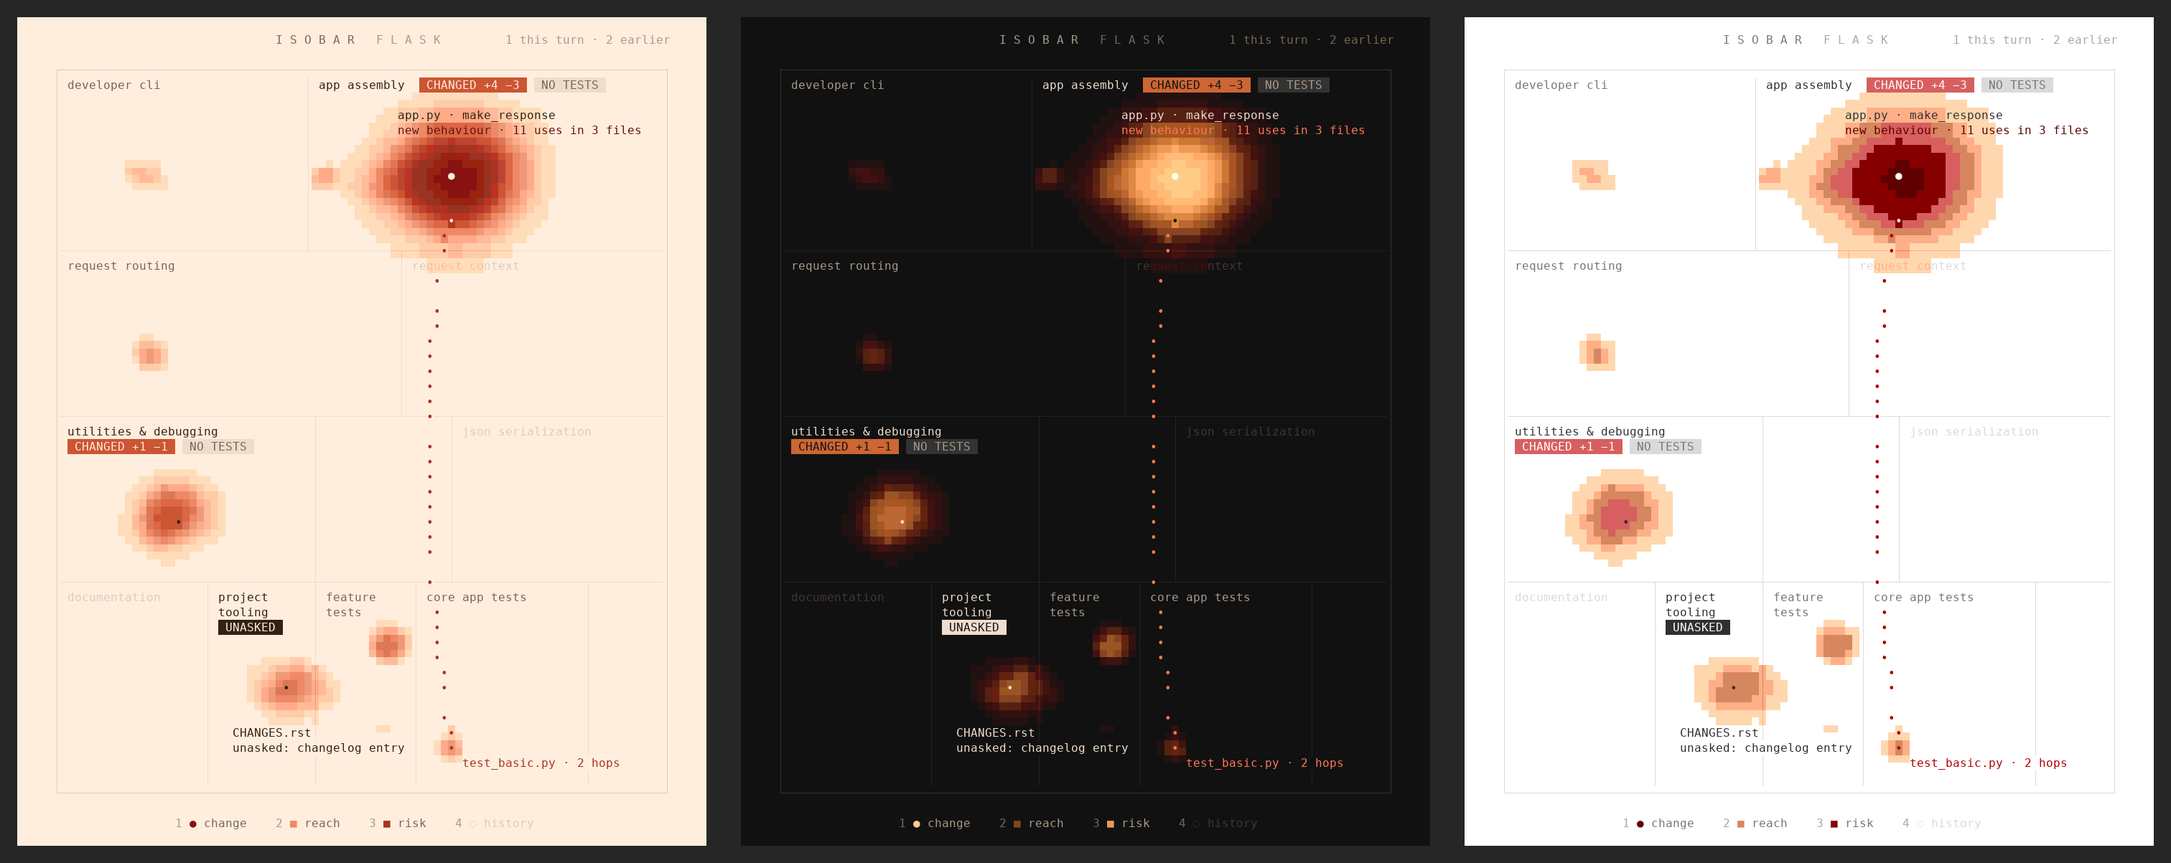
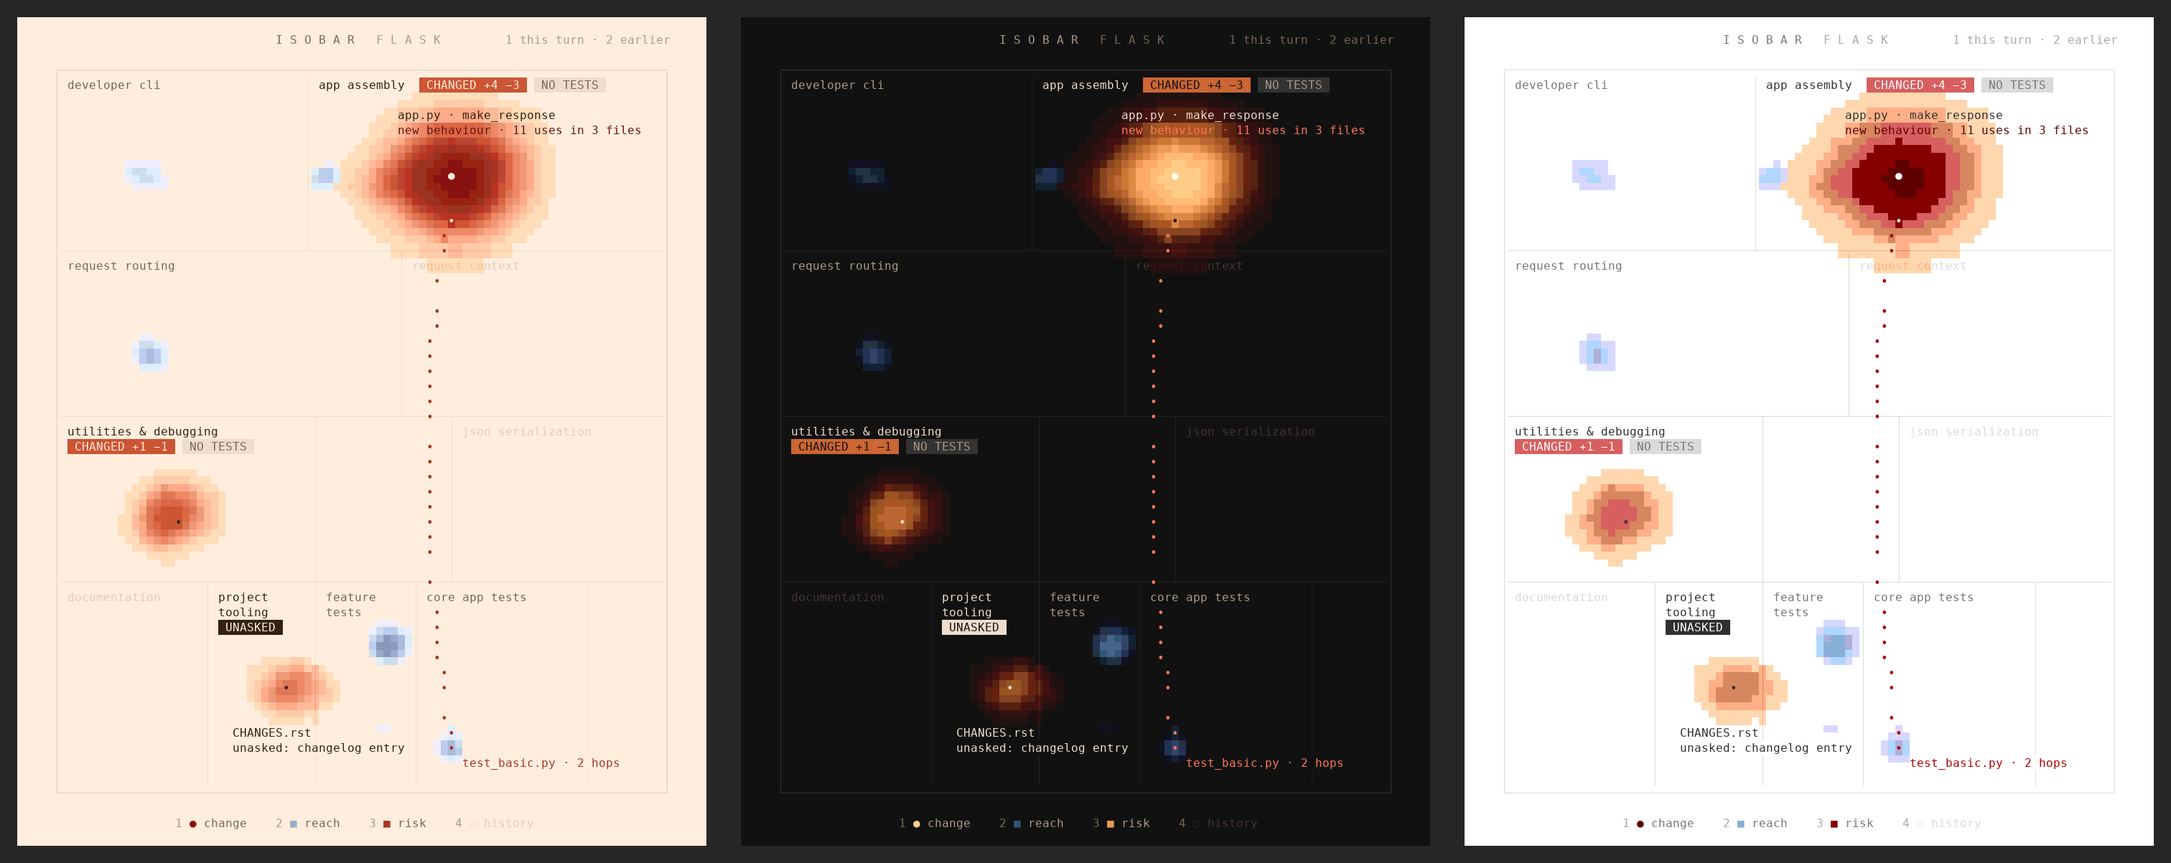
Two hues: the reach rains slate blue, apart from the change's red storm
Each pixel the rain outweighs a storm on takes the rain's own ramp, stepped on the
same perceptual grid as the storm's, with night and 256-colour sets. The README
images are re-shot from the same sources.

diff --git a/hooks/render/palette.ts b/hooks/render/palette.ts
@@ -3,7 +3,8 @@
  * (each channel a multiple of 0x11), so each set is chosen on that grid: a colour
  * off it would be snapped channel by channel and drift in hue. The radar ramps walk
  * that grid in OKLab steps of 0.03 to 0.06, lightness always moving one way, so
- * no band jumps against its neighbour.
+ * no band jumps against its neighbour. The change burns in one hue and its reach rains in
+ * another, slate blue, so what changed and what it touches read apart at a glance.
  *
  * Where Claude Code paints 256 colours (inside tmux, or where COLORTERM never says
  * truecolor) it moves each colour onto xterm's palette, and the cream paper lands on
@@ -23,6 +24,10 @@ export type Inks = {
   radar: readonly number[]
   /** the hairline over each bin, two bins on, so a line tints the weather under it */
   line: readonly number[]
+  /** the reach's rain, bin by bin in its own cooler hue; bin 0 is the same dry ground */
+  rain: readonly number[]
+  /** the hairline over each bin of rain */
+  rainLine: readonly number[]
   /** the frame around the map */
   frame: number
   /** changed regions' names, the edit's note and the legend's words */
@@ -54,6 +59,9 @@ export type Inks = {
 
 const paperRadar = [0xffeedd, 0xffddbb, 0xffccaa, 0xffbb99, 0xffaa88, 0xee9977, 0xee8866, 0xdd7755, 0xdd6644, 0xcc5533, 0xbb4433, 0xbb3322, 0xaa3322, 0x993322, 0x992211, 0x881111, 0x771111]
 const nightRadar = [0x111111, 0x221111, 0x331111, 0x441111, 0x552211, 0x662211, 0x884422, 0x995522, 0xaa5522, 0xbb6633, 0xcc7733, 0xdd8844, 0xee9955, 0xffaa66, 0xffbb77, 0xffcc88, 0xffddaa]
+// the reach's rain: slate blue, a step lighter than the storm bin for bin, so the change stays the loudest thing on the map
+const paperRain = [0xffeedd, 0xeeeeff, 0xddeeff, 0xccddee, 0xbbccee, 0xaabbdd, 0x99aacc, 0x8899bb, 0x7788aa, 0x667799, 0x556688, 0x445577, 0x334466, 0x223355, 0x112244, 0x112233, 0x001122]
+const nightRain = [0x111111, 0x111122, 0x112233, 0x223344, 0x223355, 0x334466, 0x335577, 0x446688, 0x557799, 0x6688aa, 0x7799bb, 0x88aacc, 0x99bbdd, 0xaaccee, 0xbbddee, 0xccddff, 0xddeeff]
 
 /**
  * Each bin's hairline: two bins on, the dry ground's a neutral step off it. A 256 ramp repeats
@@ -67,6 +75,8 @@ export const PAPER_INKS: Inks = {
   paper: 0xffeedd,
   radar: paperRadar,
   line: linesOf(paperRadar, 0xeeddcc),
+  rain: paperRain,
+  rainLine: linesOf(paperRain, 0xeeddcc),
   frame: 0xddccbb,
   ink: 0x332211,
   muted: 0x776655,
@@ -89,6 +99,8 @@ export const NIGHT_INKS: Inks = {
   paper: 0x111111,
   radar: nightRadar,
   line: linesOf(nightRadar, 0x222222),
+  rain: nightRain,
+  rainLine: linesOf(nightRain, 0x222222),
   frame: 0x333333,
   ink: 0xeeddcc,
   muted: 0xaa9988,
@@ -185,11 +197,16 @@ const rampOf = (indices: readonly number[]) => indices.map((i, k) => xterm(i, in
 const paperRadar256 = rampOf([231, 223, 223, 216, 216, 173, 173, 173, 167, 167, 167, 88, 88, 88, 88, 52, 52])
 /** Near-black with the weather burning up through red and amber: the night chart in xterm's colours. */
 const nightRadar256 = rampOf([233, 52, 52, 52, 88, 88, 88, 131, 131, 173, 173, 180, 180, 216, 216, 223, 223])
+/** The reach's slate rain in xterm's colours, on each ground. */
+const paperRain256 = rampOf([231, 189, 189, 153, 153, 146, 110, 110, 67, 67, 61, 61, 24, 24, 17, 17, 17])
+const nightRain256 = rampOf([233, 19, 19, 24, 24, 24, 60, 61, 61, 67, 67, 104, 110, 110, 146, 153, 189])
 
 export const PAPER_INKS_256: Inks = {
   paper: paperRadar256[0]!,
   radar: paperRadar256,
   line: linesOf(paperRadar256, xterm(253), shown256),
+  rain: paperRain256,
+  rainLine: linesOf(paperRain256, xterm(253), shown256),
   frame: xterm(253),
   ink: xterm(236),
   muted: xterm(243),
@@ -211,6 +228,8 @@ export const NIGHT_INKS_256: Inks = {
   paper: nightRadar256[0]!,
   radar: nightRadar256,
   line: linesOf(nightRadar256, xterm(235), shown256),
+  rain: nightRain256,
+  rainLine: linesOf(nightRain256, xterm(235), shown256),
   frame: xterm(236),
   ink: xterm(253),
   muted: xterm(248),

diff --git a/tests/engine.test.ts b/tests/engine.test.ts
@@ -7,7 +7,7 @@ import { edgesOf, joinedPython, jsRulesOf, normalize, parseJsonc, resolveJs, res
 import { weatherOf } from '../hooks/engine/weather'
 import { ALL_LAYERS } from '../hooks/render/field'
 import { layoutOf } from '../hooks/render/layout'
-import { colorsOf, NIGHT_INKS_256, PAPER_INKS, PAPER_INKS_256, roundedXtermOf, shown256, xtermOf } from '../hooks/render/palette'
+import { colorsOf, NIGHT_INKS_256, PAPER_INKS, PAPER_INKS_256, roundedXtermOf, shown256, STORM, xtermOf } from '../hooks/render/palette'
 import { codePointOf } from '../hooks/render/raster'
 import { sheetOf, wrap } from '../hooks/render/sheet'
 import { FACTS, MODEL_REPLY } from './fixtures'
@@ -308,6 +308,16 @@ describe('basemap and weather', () => {
     }
   })
 
+  test('the change burns red and its reach rains slate blue', () => {
+    const w = weatherOf(map, FACTS, { kind: 'uncommitted', label: 'uncommitted' }, [{ path: 'src/util.ts', added: 5, deleted: 1, isNew: false, isDeleted: false }])
+    const grid = sheetOf({ repo: 'demo', map, files: [...FACTS.lines.keys()], lines: FACTS.lines, weather: w, layers: ALL_LAYERS }, 95, 60)
+    const painted = new Set(grid.cells.flatMap(c => [c.fg, c.bg]))
+
+    expect(w.reach.length > 0).toBe(true)
+    expect(PAPER_INKS.radar.slice(STORM).some(c => painted.has(c))).toBe(true)
+    expect(PAPER_INKS.rain.slice(1).some(c => painted.has(c))).toBe(true)
+  })
+
   test('Claude Code paints 256 colours inside tmux and wherever COLORTERM never says truecolor', () => {
     expect(colorsOf({ COLORTERM: 'truecolor' })).toBe('truecolor')
     expect(colorsOf({ COLORTERM: 'truecolor', TMUX: '/tmp/tmux-1/default,1,0' })).toBe('256')
@@ -326,19 +336,23 @@ describe('basemap and weather', () => {
 
     for (const inks of [PAPER_INKS_256, NIGHT_INKS_256]) {
       // rounded or matched to its nearest, every ink lands on the same xterm colour
-      const all = [...inks.radar, ...inks.line, ...Object.values(inks).flatMap(v => (typeof v === 'number' ? [v] : typeof v === 'object' && 'fg' in v ? [v.fg, v.bg] : []))]
+      const all = [...inks.radar, ...inks.line, ...inks.rain, ...inks.rainLine, ...Object.values(inks).flatMap(v => (typeof v === 'number' ? [v] : typeof v === 'object' && 'fg' in v ? [v.fg, v.bg] : []))]
 
       expect(all.filter(c => xtermOf(c) !== roundedXtermOf(c))).toEqual([])
-      // every bin keeps its own name, so the sheet can tell them apart where they show alike
-      expect(new Set(inks.radar).size).toBe(inks.radar.length)
-      const shown = inks.radar.map(c => lightness(shown256(c)))
-      const isDarkening = shown.every((l, k) => k === 0 || (inks.isNight ? l >= shown[k - 1]! : l <= shown[k - 1]!))
+      for (const [ramp, line] of [[inks.radar, inks.line], [inks.rain, inks.rainLine]] as const) {
+        // every bin keeps its own name, so the sheet can tell them apart where they show alike
+        expect(new Set(ramp).size).toBe(ramp.length)
+        const shown = ramp.map(c => lightness(shown256(c)))
+        const isDarkening = shown.every((l, k) => k === 0 || (inks.isNight ? l >= shown[k - 1]! : l <= shown[k - 1]!))
 
-      expect(isDarkening).toBe(true)
-      // each hairline shows apart from the bin it crosses, short of the core's own colour
-      const core = shown256(inks.radar[inks.radar.length - 1]!)
+        expect(isDarkening).toBe(true)
+        // each hairline shows apart from the bin it crosses, short of the core's own colour
+        const core = shown256(ramp[ramp.length - 1]!)
 
-      inks.radar.forEach((c, k) => expect(shown256(c) === core || shown256(inks.line[k]!) !== shown256(c)).toBe(true))
+        ramp.forEach((c, k) => expect(shown256(c) === core || shown256(line[k]!) !== shown256(c)).toBe(true))
+      }
+      // the rain shares only the dry ground with the storm, so a painted colour names its bin
+      expect(inks.rain.slice(1).filter(c => inks.radar.includes(c))).toEqual([])
     }
     expect(shown256(PAPER_INKS_256.paper)).toBe(0xffffff)
   })

diff --git a/hooks/render/field.ts b/hooks/render/field.ts
@@ -19,6 +19,8 @@ export type Field = {
   h: number
   /** radar bin per pixel, 0 (dry) to 9 (the eye); the palette colours it */
   level: Uint8Array
+  /** 1 where the reach's rain sets the pixel's bin rather than a storm: it takes the rain's own hue */
+  wet: Uint8Array
   /** where each edit's eye is drawn, as a glyph over the weather */
   eyes: { path: string; x: number; y: number; risk: number; isLatest: boolean }[]
   /** where history expected a change: drawn as dashed braille contours over the weather */
@@ -36,9 +38,10 @@ export function fieldOf(layout: Layout, weather: Weather | null, layers: Layers,
   const w = layout.cols
   const h = layout.rows * 2
   const level = new Uint8Array(w * h)
+  const wet = new Uint8Array(w * h)
   const seed = hashOf(seedText)
 
-  if (weather === null) return { w, h, level, eyes: [], rings: [], track: [] }
+  if (weather === null) return { w, h, level, wet, eyes: [], rings: [], track: [] }
 
   const rnd = mulberry(seed)
   const pointOf = placer(layout, seed)
@@ -112,7 +115,7 @@ export function fieldOf(layout: Layout, weather: Weather | null, layers: Layers,
   splat(leadDensity, w, h, lead, warp, 2.2)
   splat(stormDensity, w, h, storm, warp, 2.2)
   splat(rainDensity, w, h, rain, warp, 1.6)
-  radar(level, leadDensity, stormDensity, rainDensity, w, h, seed)
+  radar(level, wet, leadDensity, stormDensity, rainDensity, w, h, seed)
   // at most two rings, each on open ground: a ring inside the storm or over another reads as a tangle
   const rings: Field['rings'] = []
 
@@ -127,7 +130,7 @@ export function fieldOf(layout: Layout, weather: Weather | null, layers: Layers,
     ? [...weather.cells].sort((a, b) => Number(b.isLatest) - Number(a.isLatest) || b.risk - a.risk).slice(0, 8).map(c => ({ path: c.path, ...pointOf(c.path, c.region), risk: c.risk, isLatest: c.isLatest }))
     : []
 
-  return { w, h, level, eyes, rings, track }
+  return { w, h, level, wet, eyes, rings, track }
 }
 
 /** A file's point; a file the layout has no point for (new, untracked) gets a stable spot in its cell. */
@@ -249,7 +252,7 @@ function splat(density: Float32Array, w: number, h: number, puffs: readonly Puff
  * them, and the rain stops below both; the faintest rain is left as dry ground so a wide
  * reach never hazes the map.
  */
-function radar(level: Uint8Array, lead: Float32Array, storm: Float32Array, rain: Float32Array, w: number, h: number, seed: number) {
+function radar(level: Uint8Array, wet: Uint8Array, lead: Float32Array, storm: Float32Array, rain: Float32Array, w: number, h: number, seed: number) {
   const top = BINS - 1
   const binOf = (d: number, k: number, lift = 0.5) => Math.max(0, Math.floor(top * (1 - Math.exp(-k * d)) + lift))
 
@@ -263,7 +266,12 @@ function radar(level: Uint8Array, lead: Float32Array, storm: Float32Array, rain:
       if (l < 0.05 && s < 0.05 && r < 0.05) continue
       const jitter = 0.82 + 0.36 * valueNoise(x * 0.11, y * 0.16, seed + 5)
 
-      level[i] = Math.min(top, Math.max(binOf(l * jitter, 0.3), Math.min(COOL_TOP, binOf(s * jitter * 0.55, 0.3)), Math.min(RAIN_TOP, binOf(r * jitter, 0.16, -1.6))))
+      const fire = Math.max(binOf(l * jitter, 0.3), Math.min(COOL_TOP, binOf(s * jitter * 0.55, 0.3)))
+      const wash = Math.min(RAIN_TOP, binOf(r * jitter, 0.16, -1.6))
+
+      level[i] = Math.min(top, Math.max(fire, wash))
+      // the rain takes its own hue wherever it, and no storm, sets the bin
+      wet[i] = wash > fire ? 1 : 0
     }
   }
 }

diff --git a/hooks/render/sheet.ts b/hooks/render/sheet.ts
@@ -163,7 +163,7 @@ function legend(grid: Sheet, layers: Layers, row: number) {
   const g = grid.inks
   const items = [
     { key: '1', mark: '●', fg: g.radar[BINS - 2]!, name: 'change', on: layers.code },
-    { key: '2', mark: '■', fg: g.radar[6]!, name: 'reach', on: layers.impact },
+    { key: '2', mark: '■', fg: g.rain[6]!, name: 'reach', on: layers.impact },
     { key: '3', mark: '■', fg: g.radar[STORM + 2]!, name: 'risk', on: layers.risk },
     { key: '4', mark: '◌', fg: g.history, name: 'history', on: layers.history },
   ]
@@ -194,7 +194,7 @@ function paint(grid: Sheet, field: Field, x0: number, y0: number) {
   const px = (x: number, y: number) => {
     const i = y * field.w + x
 
-    return grid.inks.radar[field.level[i] ?? 0] ?? grid.inks.paper
+    return (field.wet[i] === 1 ? grid.inks.rain : grid.inks.radar)[field.level[i] ?? 0] ?? grid.inks.paper
   }
 
   for (let r = 0; r < field.h / 2; r++) {
@@ -217,7 +217,14 @@ function groundOf(grid: Sheet, x: number, y: number): number {
   return binOf(grid, at.fg) >= binOf(grid, at.bg) ? at.fg : at.bg
 }
 
-const binOf = (grid: Sheet, color: number) => Math.max(0, grid.inks.radar.indexOf(color))
+/** The bin a painted colour stands for, in the storm's hue or the rain's. */
+const binOf = (grid: Sheet, color: number) => {
+  const k = grid.inks.radar.indexOf(color)
+
+  return k >= 0 ? k : Math.max(0, grid.inks.rain.indexOf(color))
+}
+/** The hairline that crosses a painted colour: two bins on, in the hue it was painted in. */
+const lineOf = (grid: Sheet, color: number) => (grid.inks.radar.includes(color) ? grid.inks.line : grid.inks.rain.includes(color) ? grid.inks.rainLine : grid.inks.line)[binOf(grid, color)]
 
 /** Hairlines between cells, multiplied into the weather so they darken it instead of sitting on it. */
 function lines(grid: Sheet, layout: Layout, x0: number, y0: number) {
@@ -236,7 +243,7 @@ function lines(grid: Sheet, layout: Layout, x0: number, y0: number) {
       const glyph = BOX[(up ? 8 : 0) | (down ? 4 : 0) | (lf ? 2 : 0) | (rt ? 1 : 0)] ?? '·'
       const ground = groundOf(grid, x0 + c, y0 + r)
 
-      put(grid, x0 + c, y0 + r, { glyph, fg: grid.inks.line[binOf(grid, ground)] ?? grid.inks.line[0], bg: ground })
+      put(grid, x0 + c, y0 + r, { glyph, fg: lineOf(grid, ground) ?? grid.inks.line[0], bg: ground })
     }
   }
 }
@@ -276,7 +283,7 @@ function names(grid: Sheet, layout: Layout, weather: Weather | null, layers: Lay
           const ground = groundOf(grid, rect.x + 1 + i, rect.y)
           const bin = binOf(grid, ground)
 
-          put(grid, rect.x + 1 + i, rect.y, { glyph: name[i], fg: bin === 0 ? g.nameDry : g.line[bin] ?? g.nameDry, bg: ground })
+          put(grid, rect.x + 1 + i, rect.y, { glyph: name[i], fg: bin === 0 ? g.nameDry : lineOf(grid, ground) ?? g.nameDry, bg: ground })
         }
       }
       continue

diff --git a/README.md b/README.md
@@ -14,7 +14,7 @@ isobar is a [Claude Code](https://claude.com/claude-code) mod that docks a pane 
 
 - **Where the change landed.** A storm on each file Claude edited, in its region of the map. You see at a glance whether the work landed where you expected.
 - **What it did there.** Once a turn ends, a small model reads the diff of each changed region and captions it under the region's name in a few words, such as `warns on slow requests` or `covers slow warnings`. The caption is the diff's own account, written without your requests, so you can set it against what you meant.
-- **What it reaches.** Rain on the files that use what changed. isobar reads each edit declaration by declaration: a new signature or a new behaviour rains on the files that name it, and an edit to comments or imports stays dry. The note beside the edit says how far it reaches, as in `new behaviour · 11 uses in 3 files`.
+- **What it reaches.** Slate-blue rain on the files that use what changed, apart from the change's red storm. isobar reads each edit declaration by declaration: a new signature or a new behaviour rains on the files that name it, and an edit to comments or imports stays dry. The note beside the edit says how far it reaches, as in `new behaviour · 11 uses in 3 files`.
 - **This turn against the session.** The latest turn's edits burn brightest and earlier turns fade, so a long session still reads in one look.
 - **What you never asked for.** Turn on the scope check and, after each turn, a small model compares your requests with the turn's diff. An edit nobody asked for carries `UNASKED` and a few words on what it did.
 - **The same frame every time.** Each repository is cut into named regions once and kept. Every change lands on the same map, so after a few sessions you read a change by its shape, the way you read a weather chart of your own country.
@@ -45,7 +45,7 @@ For one session only: `claude --plugin-dir ~/src/isobar`.
 - **Caption.** Under a changed region's name, what the change does there, from the gist.
 - **Badges.** The region's name carries `CHANGED +a −d`, `NO TESTS` when source code changed what it does and no test moved with it (a changed test counts when it imports the file, shares its name, or its new lines name what the edit touched or introduced, such as a new config key), `UNASKED` when the scope check flagged an edit, and `EXPECTED` on a region history says should have changed.
 - **Note.** The edited file and the declaration it touched, then how it reaches: `new signature` or `new behaviour` with its uses, `comments only`, or, for a file isobar reads whole, how many files depend on it.
-- **Rain.** The files that use what changed, fading with import distance.
+- **Rain.** The files that use what changed, in slate blue, fading with import distance.
 - **Track.** The farthest file the change reaches, along its real import chain, labelled `file · N hops`. A file is named by as much of its path as tells it apart from the others on the pane: `sansio/app.py` beside `flask/app.py`.
 - **Title.** The repository, and how many files the latest turn changed against the rest of the session.
 
@@ -93,7 +93,7 @@ To give a team one shared map, commit it as `.isobar/map.json`; from a clone of 
 6. **The gist.** When a turn ends, one call to `smallModel` carries each changed region's name and blurb, its files with their line counts and touched declarations, and their diff, capped at 400 lines shared across the files. It asks for a caption of 2 to 4 words per region. Your requests stay out of it. A caption holds until its region's change changes; while a turn runs, the last caption stays.
 7. **The scope check** (opt-in). When a turn ends, one call to `smallModel` carries your last four requests and the turn's diff, capped at 400 lines, and asks which changes no request called for. A flag holds until the file changes again.
 8. **The map.** Once per repository, isobar cuts the tree into about 160 units (big source folders opened to their files, the rest taken a folder at a time) and asks the session's model to group them into at most 20 regions in 3 to 6 bands, from where work enters down to the foundations. Every file lands in exactly one region; when the model's answer is unusable, the folders themselves become the regions. A region's area is its lines of code times how much of the rest depends on it. The map is kept in Claude Code's plugin store, and new files join the region their imports point to, so the frame never grows or moves.
-9. **The picture.** The storm and the rain are density fields over the map's layout, binned into 17 colour steps that move evenly in a perceptual colour space, drawn in half-block cells as one Raster.
+9. **The picture.** The storm and the rain are density fields over the map's layout, binned into 17 colour steps that move evenly in a perceptual colour space: the storm in reds, the rain in slate blues wherever it outweighs a storm. They are drawn in half-block cells as one Raster.
 
 Refreshes run 500 ms after Claude's last tool call, one at a time.
 

diff --git a/docs/design.md b/docs/design.md
@@ -1,6 +1,6 @@
 # Design notes
 
-isobar treats a session's change as weather over a map that never moves. The storm sits where Claude edited, its rain falls on the code that uses what changed, the latest turn shows brightest, and a badge marks an edit nobody asked for. The map is the same every time you look, so after a few changes you read it by shape, the way you read a weather chart of your own country.
+isobar treats a session's change as weather over a map that never moves. The storm sits where Claude edited in red, its rain falls in slate blue on the code that uses what changed, the latest turn shows brightest, and a badge marks an edit nobody asked for. The map is the same every time you look, so after a few changes you read it by shape, the way you read a weather chart of your own country.
 
 ## Who it is for
 
@@ -25,7 +25,7 @@ Each layer is a fact or a forecast, and the picture keeps the two apart.
 
 ## Why a printed chart
 
-The terminal is treated as a print medium: a cartographic sheet set in half-block cells. The weather ramps step evenly in a perceptual colour space, so no band jumps against its neighbour. Words are kept to what the map cannot say by itself, and each one sits on what it describes. The chart is printed on warm paper by default; in 256-colour terminals it moves to white paper with xterm's own colours, since the cream has no 256-colour equivalent.
+The terminal is treated as a print medium: a cartographic sheet set in half-block cells. The weather ramps step evenly in a perceptual colour space, so no band jumps against its neighbour. The change and its reach take two hues, red and slate blue, so the two read apart without a legend. Words are kept to what the map cannot say by itself, and each one sits on what it describes. The chart is printed on warm paper by default; in 256-colour terminals it moves to white paper with xterm's own colours, since the cream has no 256-colour equivalent.
 
 ## Where it came from
 

diff --git a/CHANGELOG.md b/CHANGELOG.md
@@ -10,6 +10,7 @@ All notable changes to this project are documented here. The format is based on
 - **The gist** (`gist`, on by default). Once a turn that changes files ends, `smallModel` reads each changed region's diff and captions what the change does there in a few words, under the region's name. It never sees your requests, so the caption is the diff's own account.
 
 ### Changed
+- **Two hues.** The reach rains in slate blue, apart from the change's red storm, so what changed and what it touches read apart at a glance. Night and 256-colour terminals get their own slate ramps.
 - **`scopeModel` is now `smallModel`**, shared by the gist and the scope check, and defaults to `sonnet`.
 - **`NO TESTS` reads the test.** A changed test now covers an edit when its new lines name what the edit touched or a name the edit introduced (a new config key, a new helper), as well as when it imports the file or shares its name.
 - **Labels tell files apart.** A note or the track names a file by as much of its path as tells it from the others on the pane, such as `sansio/app.py` beside `flask/app.py`.
